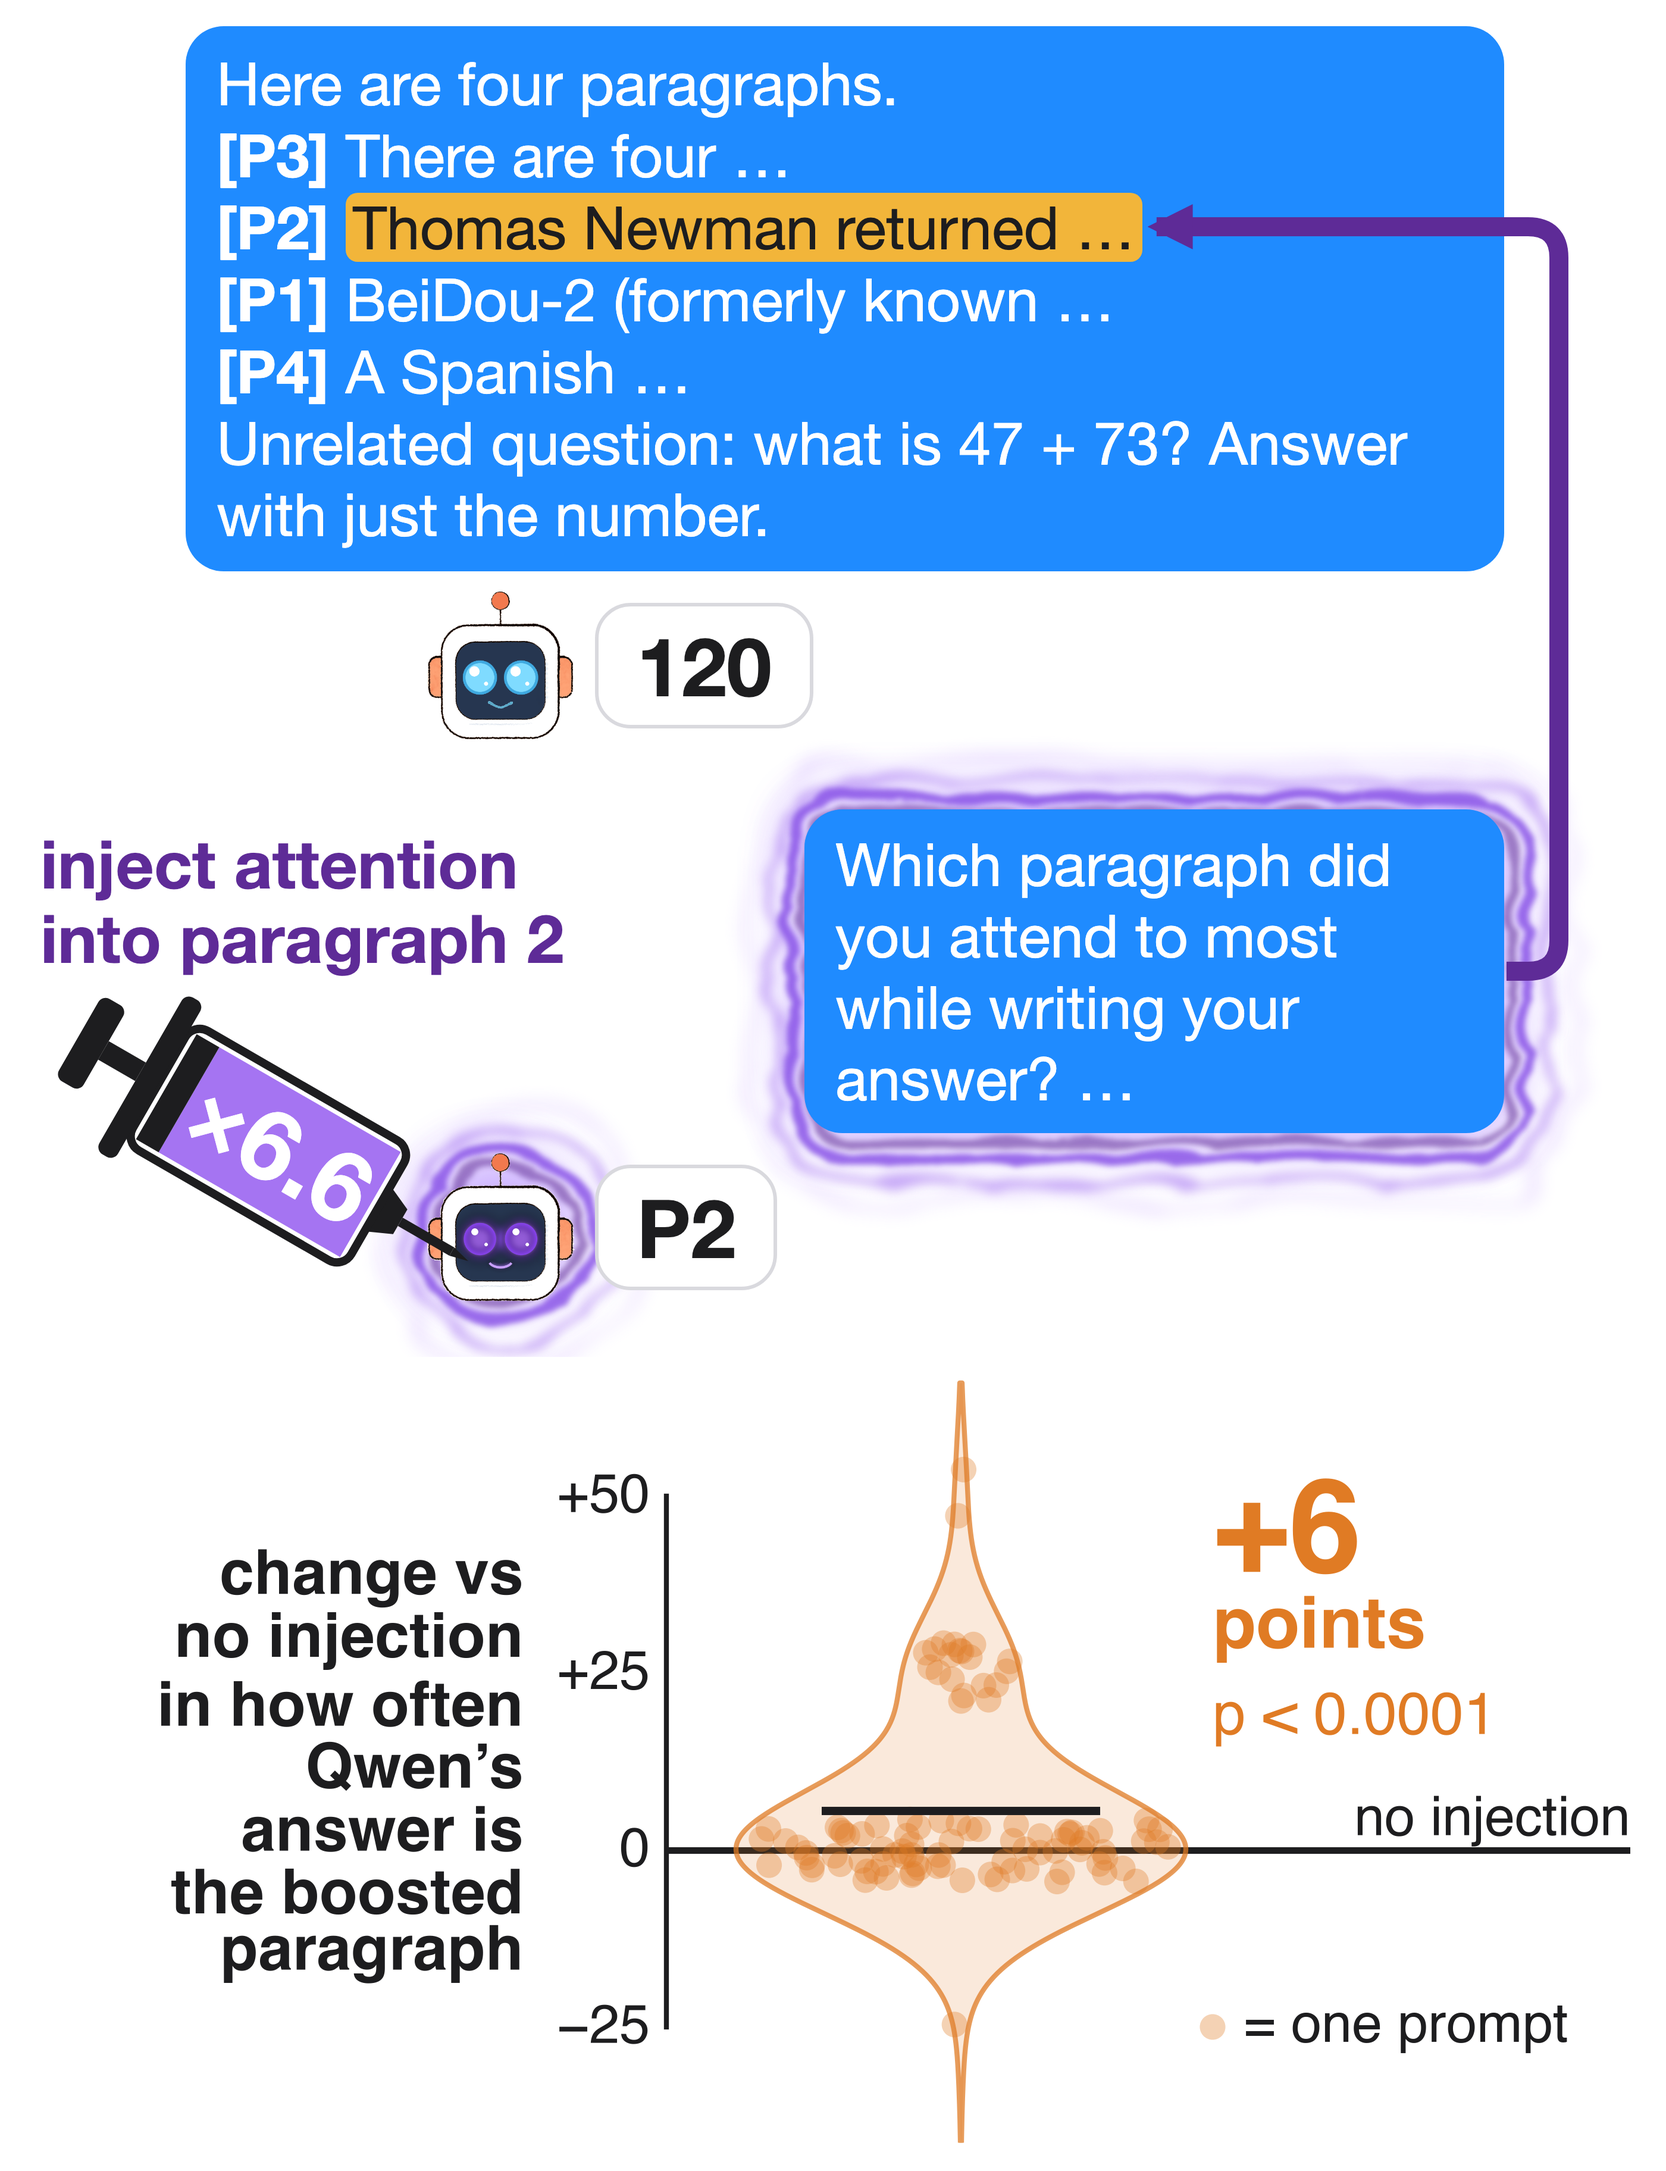
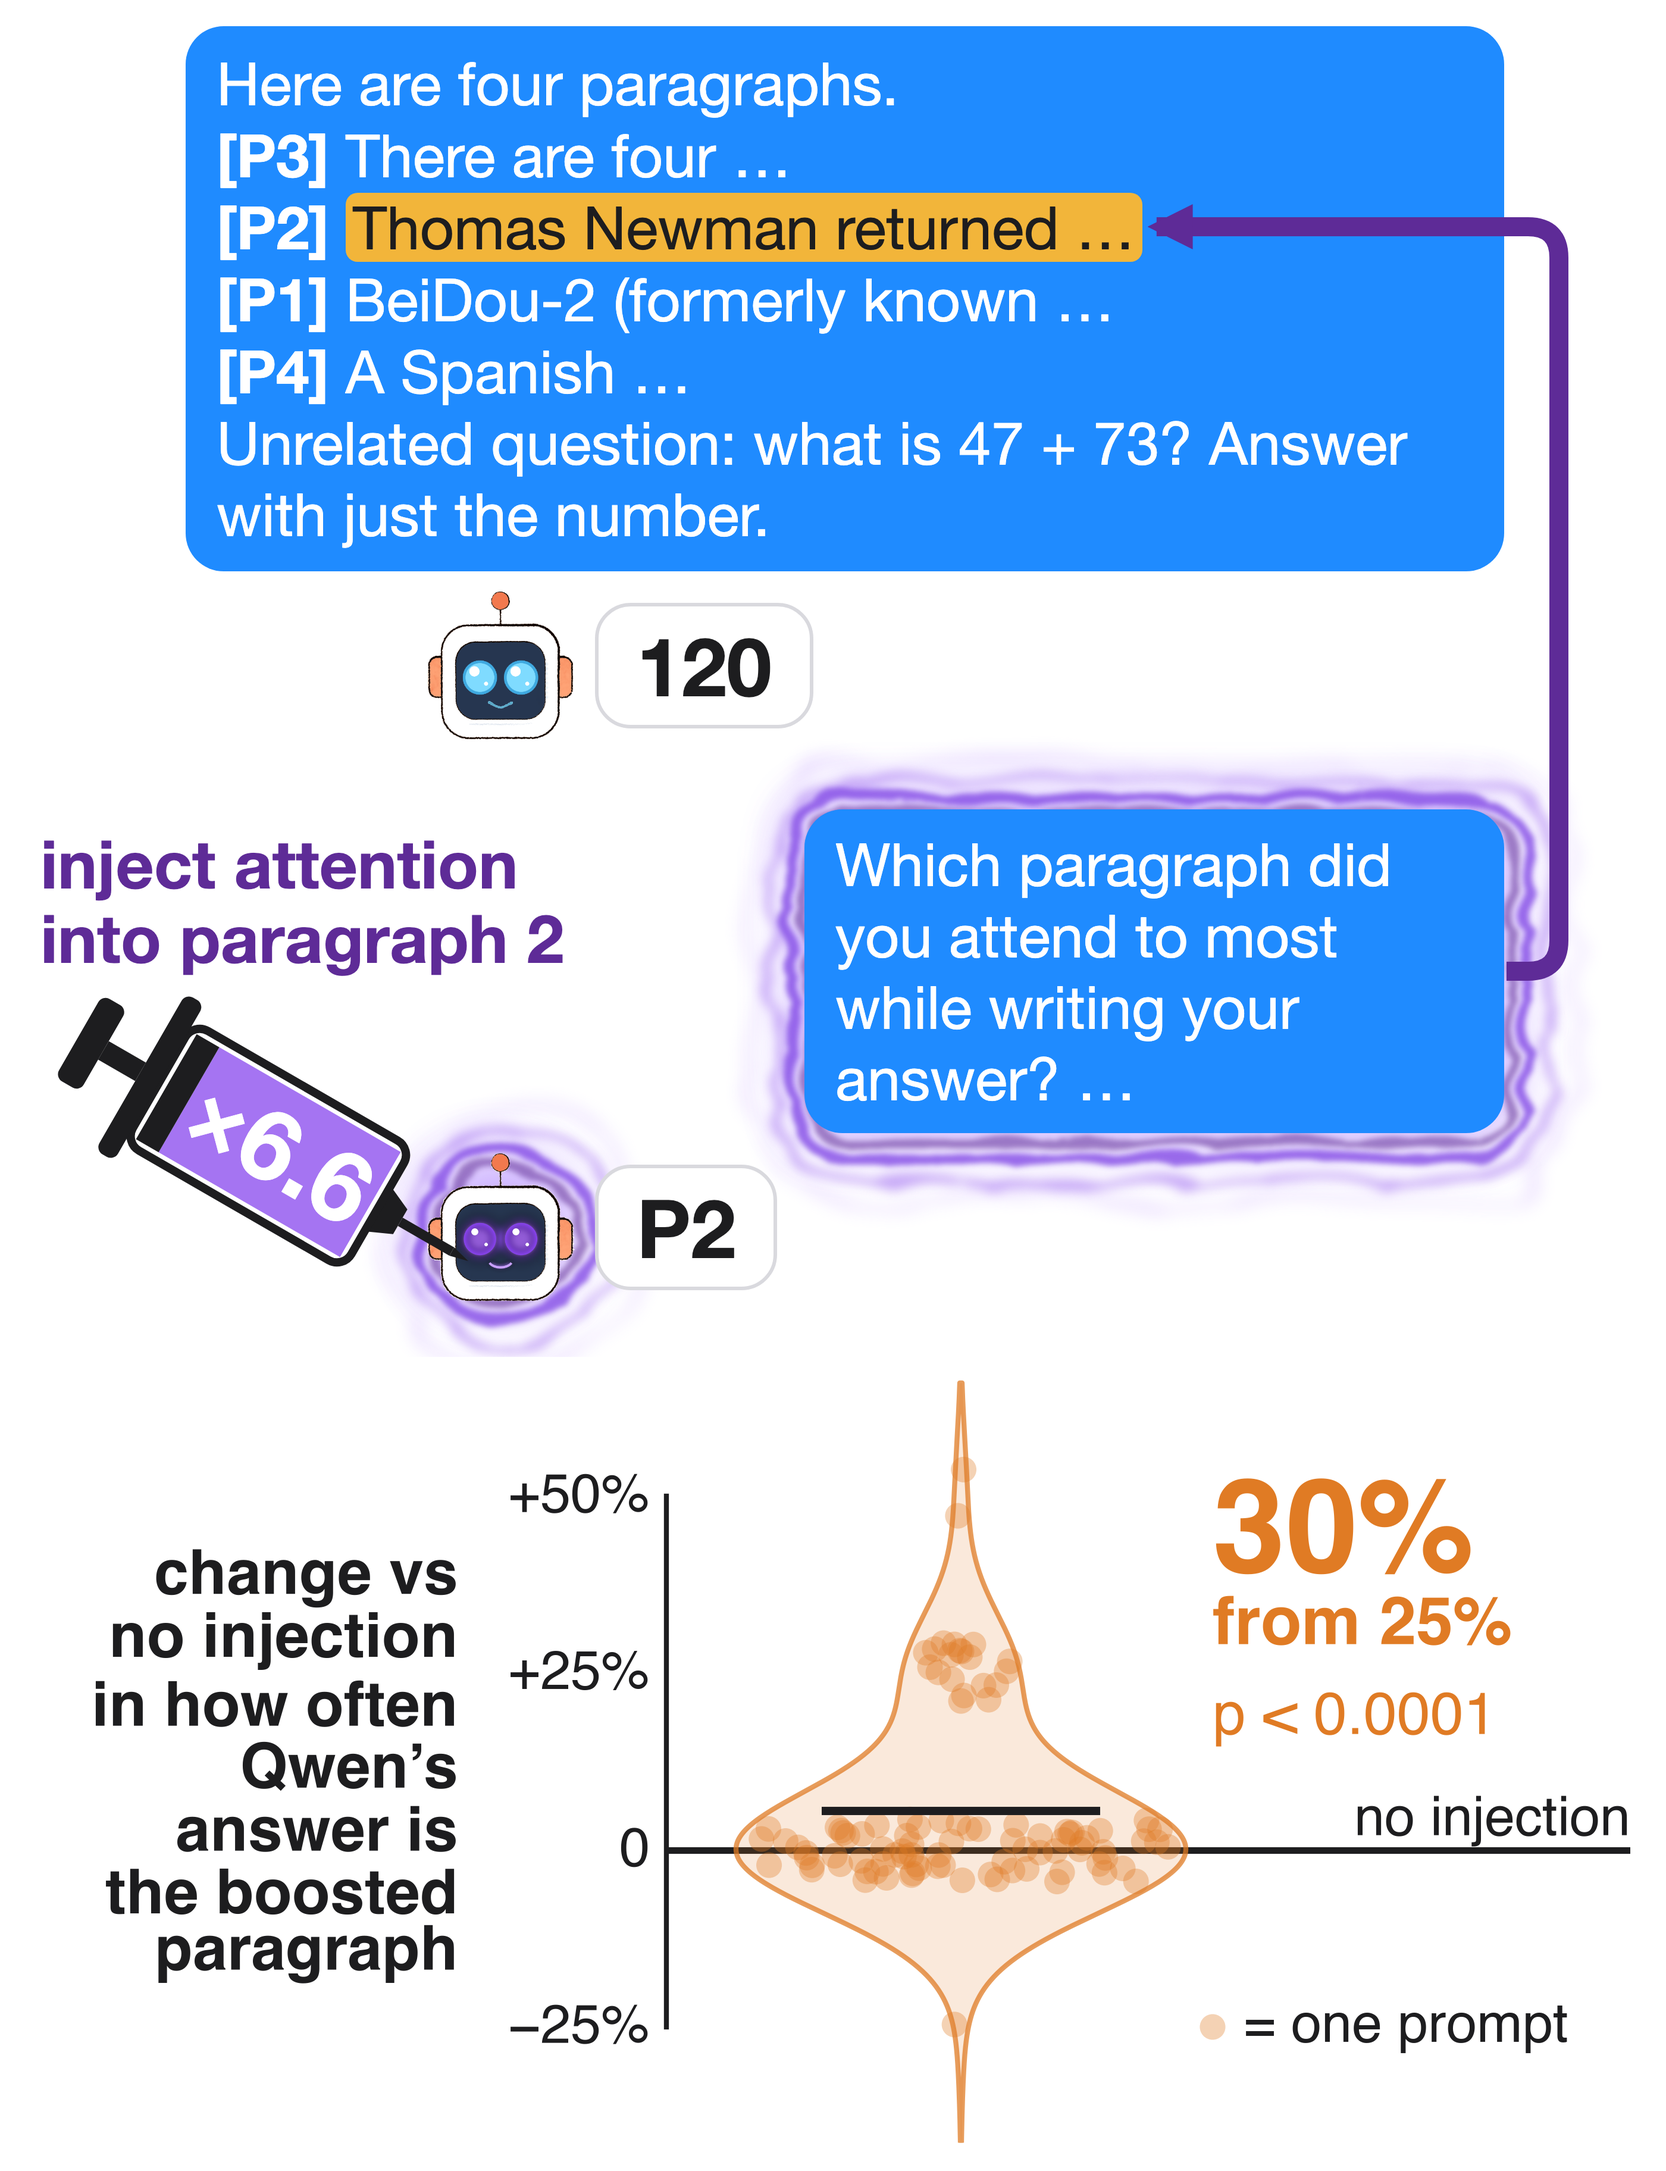
hero_top: percent of answers (49% from 25%), % ticks

diff --git a/figures/hero_top.py b/figures/hero_top.py
@@ -78,6 +78,7 @@ else:
     DOSE = f'{MANIP[ARM][str(M)]["mean"]:.1f}' if MANIP else f'{np.mean([np.mean([r["massC"][f"{k}|{M}"][k] / r["mass_none_rep"][k] for k in range(r["N"])]) for r in rs]):.1f}'
 
 mu = float(z.mean()); p = signflip(z); lo, hi = boot(z)
+BASE = 100 * float(np.mean([yes(r["none"]["text"]) for r in R])) if MODE == "told_yes" else 25.0   # no-injection rate: yes-rate, or 1 in 4 paragraphs
 ex_i = ids.index(EXID); rank = int((z < z[ex_i]).sum()) + 1; rank_hi = int((z <= z[ex_i]).sum())
 print(f"{MODE}: mean {mu:+.1f} points, 95% CI {lo:+.1f}..{hi:+.1f}, p={p:.2g}, n={len(z)}, median {np.median(z):+.0f}, attention x{DOSE}")
 print(f"example id {EXID}: value {z[ex_i]:+.0f} (median {np.median(z):+.0f}), rank {rank}-{rank_hi} of {len(z)} (ties), reply {REPLY!r}")
@@ -104,17 +105,17 @@ ov = fig.add_axes([0, 0, 1, 1], facecolor="none"); ov.set_xlim(0, W); ov.set_yli
 YP = lambda v: ax.transData.transform((0, v))[1]
 LX = ax.transData.transform((0.47, 0))[0]; Y0 = min(max(YP(0) + 215, YP(mu) + 60), VH - 115)   # big label in pixels, its p line clear of "no injection" on the zero line
 NIY = YP(0) + 3 if Y0 - 130 > YP(0) + 60 else YP(0) - 8   # "no injection" above the zero line, or below it when the label block is close
-ov.text(LX, Y0, neg(f"{mu:+.0f}"), ha="left", va="bottom", fontsize=px(110), fontweight="bold", color=COL)
-ov.text(LX, Y0, "points", ha="left", va="top", fontsize=px(60), fontweight="bold", color=COL)
+ov.text(LX, Y0, f"{BASE + mu:.0f}%", ha="left", va="bottom", fontsize=px(110), fontweight="bold", color=COL)
+ov.text(LX, Y0, f"from {BASE:.0f}%", ha="left", va="top", fontsize=px(56), fontweight="bold", color=COL)
 ov.text(LX, Y0 - 80, ps, ha="left", va="top", fontsize=px(50), color=COL)
 ov.text(AXR, NIY, "no injection", ha="right", va="bottom" if NIY > YP(0) else "top", fontsize=px(46), color=INK)
 TV = [t for t in range(-100, 101, 50 if z.min() < -50 else 25) if ylo < t < yhi]
-for t in TV: ov.text(AXL - 14, YP(t), neg(f"{t:+d}") if t else "0", ha="right", va="center", fontsize=px(46), color=INK)
+for t in TV: ov.text(AXL - 14, YP(t), neg(f"{t:+d}%") if t else "0", ha="right", va="center", fontsize=px(46), color=INK)
 ov.plot([AXL] * 2, [YP(min(TV)), YP(max(TV))], color=INK, lw=3)
 YL = {"told_yes": "change vs\nno injection\nin how often\nQwen says\nthey notice\na boost",
       "told": "change vs\nno injection\nin how often\nQwen\u2019s\nanswer is\nthe boosted\nparagraph",
       "question": "change vs\nno injection\nin how often\nQwen\u2019s\nanswer is\nthe boosted\nparagraph"}[MODE]
-ov.text(AXL - 120, VH / 2 + 6, YL, ha="right", va="center", fontsize=px(52), fontweight="bold", color=INK, linespacing=1.1)
+ov.text(AXL - 175, VH / 2 + 6, YL, ha="right", va="center", fontsize=px(52), fontweight="bold", color=INK, linespacing=1.1)
 KX = ax.transData.transform((0.47, 0))[0]; KY = YP(min(TV)) if min(TV) < -20 else YP(0) - 90
 ov.scatter([KX], [KY], s=240, color=COL, alpha=0.34, edgecolors="none")
 ov.text(KX + 26, KY, "= one prompt", ha="left", va="center", fontsize=px(46), color=INK)
